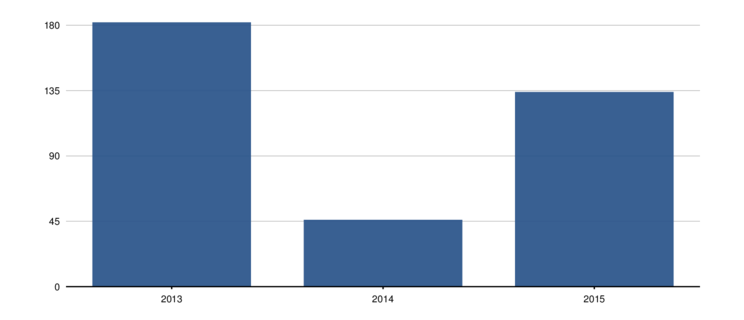
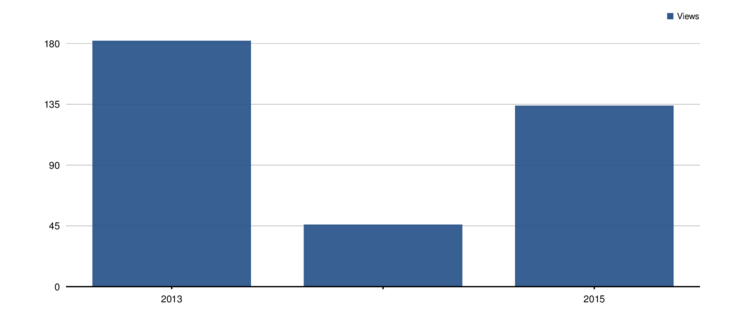
Add `:every` option

diff --git a/spec/graph/baseline_spec.rb b/spec/graph/baseline_spec.rb
@@ -43,6 +43,14 @@ describe 'Graph baseline', inspect: true do
       ticks = inspected_line.points[0..-3].each_slice(2)
       expect(ticks.size).to be views.size
     end
+
+    context 'given the :every option is set' do
+      let(:options) { {legend: false, steps: 0, every: 2} }
+
+      it 'only include a category every once in a while' do
+        expect(inspected_strings).to eq %w(2013 2015)
+      end
+    end
   end
 
   it 'can be disabled with the :baseline option' do
@@ -67,5 +75,17 @@ describe 'Graph baseline', inspect: true do
     pdf.chart one_series, options
     Squid.configure {|config| config.ticks = true}
     expect(inspected_line.points[0..-3]).to be_empty
+  end
+
+  it 'can be drawn with some categories with the :every option' do
+    pdf.chart one_series, options.merge(every: 3)
+    # expect(inspected_line.points[0..-3]).to be_empty
+  end
+
+  it 'can be drawn with some categories with Squid.config' do
+    Squid.configure {|config| config.every = 3}
+    pdf.chart one_series, options
+    Squid.configure {|config| config.every = 1}
+    # expect(inspected_line.points[0..-3]).to be_empty
   end
 end

diff --git a/examples/readme/readme.rb b/examples/readme/readme.rb
@@ -13,13 +13,14 @@ Prawn::ManualBuilder::Example.generate 'readme.pdf' do
       s.example '05-gridlines'
       s.example '06-ticks'
       s.example '07-baseline'
-      s.example '08-legend'
-      s.example '09-format'
-      s.example '10-labels'
-      s.example '11-border'
-      s.example '12-height'
-      s.example '13-multiple-columns'
-      s.example '14-multiple-stacks'
+      s.example '08-every'
+      s.example '09-legend'
+      s.example '10-format'
+      s.example '11-labels'
+      s.example '12-border'
+      s.example '13-height'
+      s.example '14-multiple-columns'
+      s.example '15-multiple-stacks'
     end
   end
 end

diff --git a/lib/squid/graph.rb b/lib/squid/graph.rb
@@ -9,7 +9,7 @@ require 'squid/graph/legend'
 
 module Squid
   class Graph < Base
-    has_settings :baseline, :border, :chart, :colors, :format, :height
+    has_settings :baseline, :border, :chart, :colors, :every, :format, :height
     has_settings :legend, :line_width, :steps, :ticks, :type, :labels
 
     # Draws the graph.
@@ -38,7 +38,7 @@ module Squid
     end
 
     def draw_baseline
-      Baseline.new(pdf, categories, left: left, ticks: ticks).draw
+      Baseline.new(pdf, categories, left: left, ticks: ticks, every: every).draw
     end
 
     def draw_chart

diff --git a/lib/squid/configuration.rb b/lib/squid/configuration.rb
@@ -35,6 +35,7 @@ module Squid
       border:       {default: 'false',   as: -> (value) { true? value }},
       chart:        {default: 'true',    as: -> (value) { true? value }},
       colors:       {default: COLORS,    as: -> (value) { value.split }},
+      every:        {default: '1',       as: -> (value) { value.to_i }},
       format:       {default: 'integer', as: -> (value) { value.to_sym }},
       legend:       {default: 'true',    as: -> (value) { true? value }},
       line_width:   {default: '3',       as: -> (value) { value.to_i }},

diff --git a/examples/squid/every.rb b/examples/squid/every.rb
@@ -1,0 +1,11 @@
+# By default, <code>chart</code> plots every category on the baseline.
+#
+# You can use the <code>:every</code> option to change this behavior.
+#
+filename = File.basename(__FILE__).gsub('.rb', '.pdf')
+Prawn::ManualBuilder::Example.generate(filename) do
+ data = {views: {'Jan 1' => 12, 'Jan 2' => 13, 'Jan 3' => 21, 'Jan 4' => 42,
+ 'Jan 5' => 32, 'Jan 6' => 45, 'Jan 7' => 62, 'Jan 8' => 22, 'Jan 9' => 31,
+ 'Jan 10' => 11, 'Jan 11' => 40, 'Jan 12' => 6, 'Jan 13' => 9}}
+ chart data, every: 3
+end

diff --git a/spec/configuration_spec.rb b/spec/configuration_spec.rb
@@ -63,6 +63,21 @@ describe Squid::Configuration do
     end
   end
 
+  describe 'every' do
+    let(:every) { rand(9) }
+
+    it 'is 3 by default' do
+      ENV['SQUID_EVERY'] = nil
+      expect(config.every).to eq 1
+    end
+
+    it 'can be set with the environment variable SQUID_EVERY' do
+      ENV['SQUID_EVERY'] = every.to_s
+      expect(config.every).to eq every
+      ENV['SQUID_EVERY'] = nil
+    end
+  end
+
   describe 'format' do
     let(:format) { %i(percentage currency seconds float).sample }
 

diff --git a/lib/squid/graph/baseline.rb b/lib/squid/graph/baseline.rb
@@ -8,9 +8,9 @@ module Squid
 
     def draw
       x = left
-      data.each do |category|
+      data.each.with_index do |category, index|
         draw_tick x if @settings[:ticks]
-        draw_category category, x
+        draw_category category, x if (index % @settings[:every]).zero?
         x += width
       end
       draw_baseline

diff --git a/examples/squid/squid.rb b/examples/squid/squid.rb
@@ -28,6 +28,7 @@ Prawn::ManualBuilder::Example.generate 'squid.pdf' do
       s.example 'height'
       s.example 'baseline'
       s.example 'ticks'
+      s.example 'every'
       s.example 'gridlines'
       s.example 'format'
       s.example 'border'

diff --git a/examples/readme/08-every.rb b/examples/readme/08-every.rb
@@ -1,0 +1,5 @@
+filename = File.basename(__FILE__).gsub('.rb', '.pdf')
+Prawn::ManualBuilder::Example.generate(filename) do
+  data = {views: {2013 => 182, 2014 => 46, 2015 => 134}}
+  chart data, every: 2
+end
